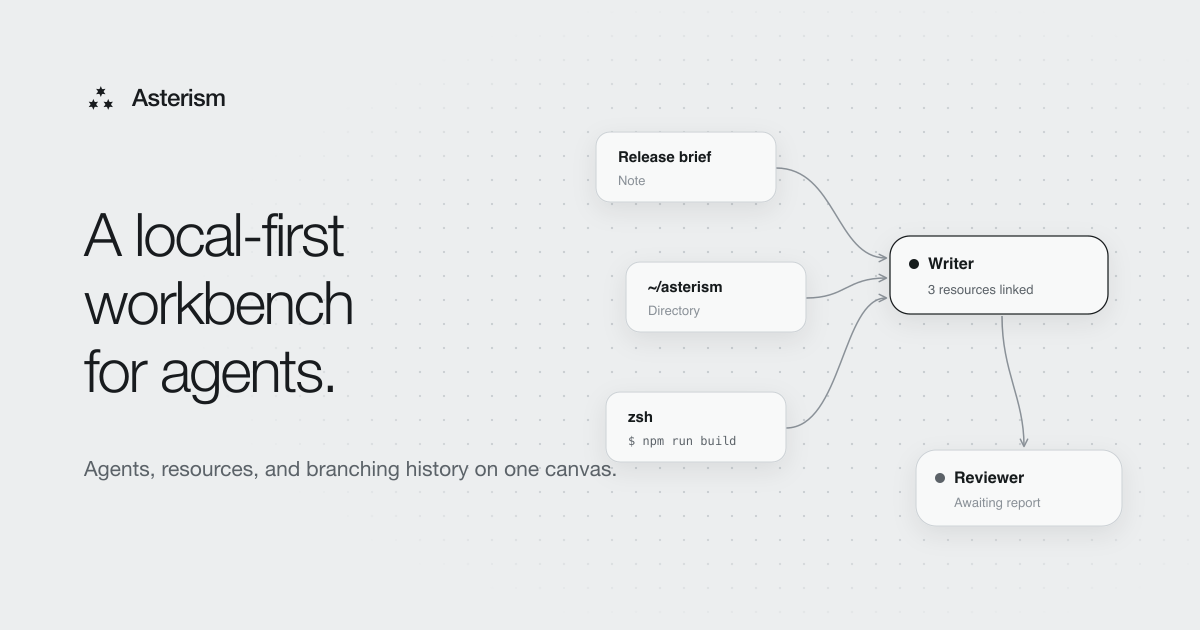
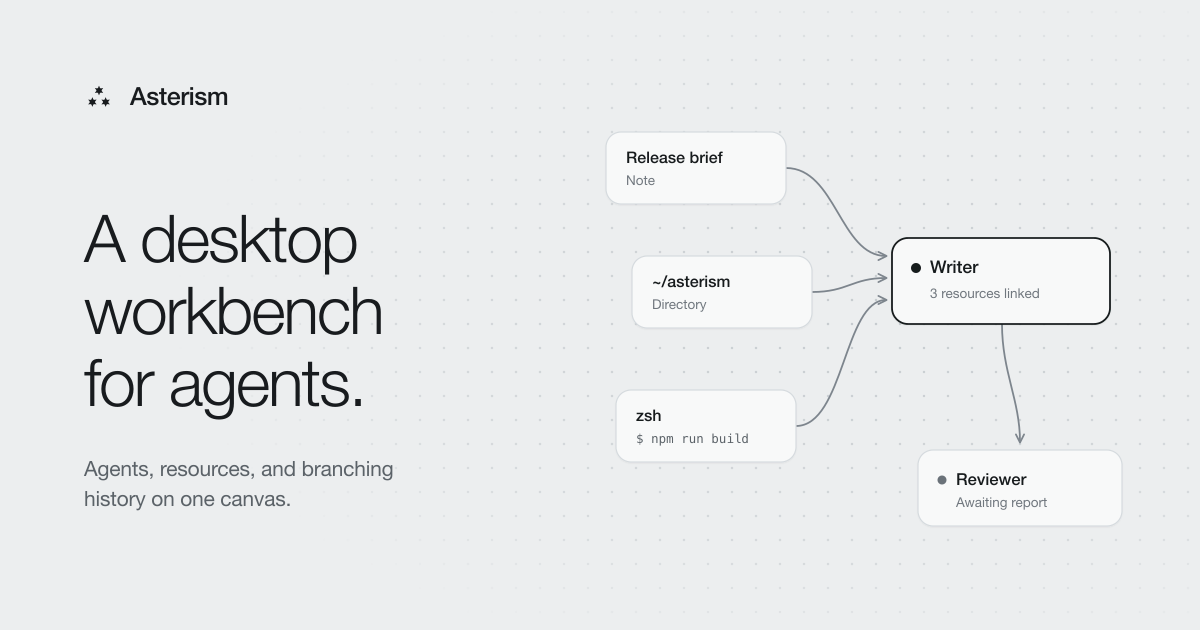
docs(website): replace local-first positioning with desktop workbench copy
Update English and Chinese landing page copy and regenerate the Open Graph image to describe Asterism as a desktop workbench with local storage and opt-in Sentry crash reporting rather than local-first.

diff --git a/website/src/i18n/content.ts b/website/src/i18n/content.ts
@@ -171,9 +171,9 @@ const basePlatforms = {
 export const content: Record<Locale, Content> = {
   en: {
     htmlLang: "en",
-    title: "Asterism — a local-first workbench for agents",
+    title: "Asterism — a desktop workbench for agents",
     description:
-      "Organize agents, files, terminals, and services on one local workbench. Explicit links decide access, and work history stays inspectable as a tree.",
+      "Organize agents, files, terminals, and services on one desktop workbench. Explicit links decide access, and work history stays inspectable as a tree.",
     skipToContent: "Skip to content",
     nav: {
       source: "GitHub",
@@ -181,7 +181,7 @@ export const content: Record<Locale, Content> = {
       switchName: "中文",
     },
     hero: {
-      lede: "A local-first workbench for working with agents.",
+      lede: "A desktop workbench for working with agents.",
       sublede:
         "Agents, files, terminals, and services share one canvas. Links decide what each agent can reach, and history keeps every turn.",
       download: "Download",
@@ -299,8 +299,8 @@ export const content: Record<Locale, Content> = {
     },
     principles: [
       {
-        term: "Local-first",
-        detail: "Sessions, SQLite history, and settings live on your machine. Nothing leaves except requests to providers you configure.",
+        term: "Local storage",
+        detail: "Sessions, SQLite history, and settings live on your machine with no Asterism account. Model requests go to your providers, and Sentry crash reporting is opt-in.",
       },
       {
         term: "Your models",
@@ -335,9 +335,9 @@ export const content: Record<Locale, Content> = {
   },
   zh: {
     htmlLang: "zh-CN",
-    title: "Asterism — 本地优先的智能体工作台",
+    title: "Asterism — 智能体桌面工作台",
     description:
-      "在同一张本地工作台上组织智能体、文件、终端与外部服务。显式链接决定访问边界，会话历史以树状结构完整留存。",
+      "在同一张桌面工作台上组织智能体、文件、终端与外部服务。显式链接决定访问边界，会话历史以树状结构完整留存。",
     skipToContent: "跳至正文",
     nav: {
       source: "GitHub",
@@ -345,7 +345,7 @@ export const content: Record<Locale, Content> = {
       switchName: "EN",
     },
     hero: {
-      lede: "本地优先的智能体工作台。",
+      lede: "面向智能体的桌面工作台。",
       sublede: "智能体、文件、终端与外部服务同在一张画布上。链接决定各自能触及什么，历史保留每一轮推进。",
       download: "下载应用",
       source: "查看源码",
@@ -462,8 +462,8 @@ export const content: Record<Locale, Content> = {
     },
     principles: [
       {
-        term: "本地优先",
-        detail: "会话、SQLite 历史记录与配置均保存在本机，仅向你自行配置的服务商发起请求。",
+        term: "数据留在本地",
+        detail: "会话、SQLite 历史记录与配置均保存在本机，无需 Asterism 账号。模型请求直连你配置的服务商，Sentry 崩溃报告默认关闭、按需开启。",
       },
       {
         term: "自选模型",
